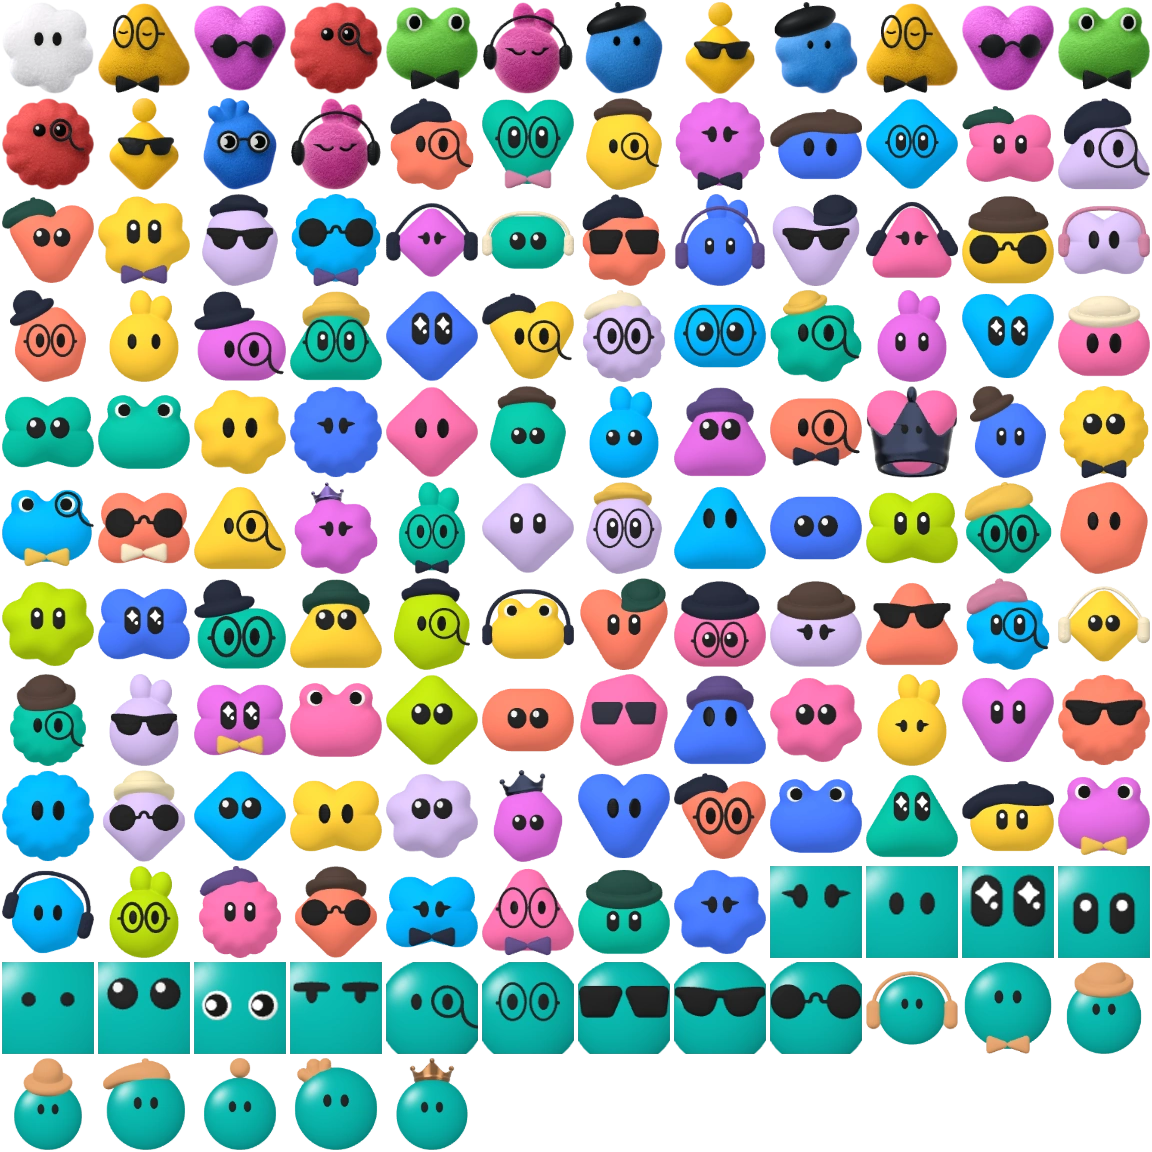
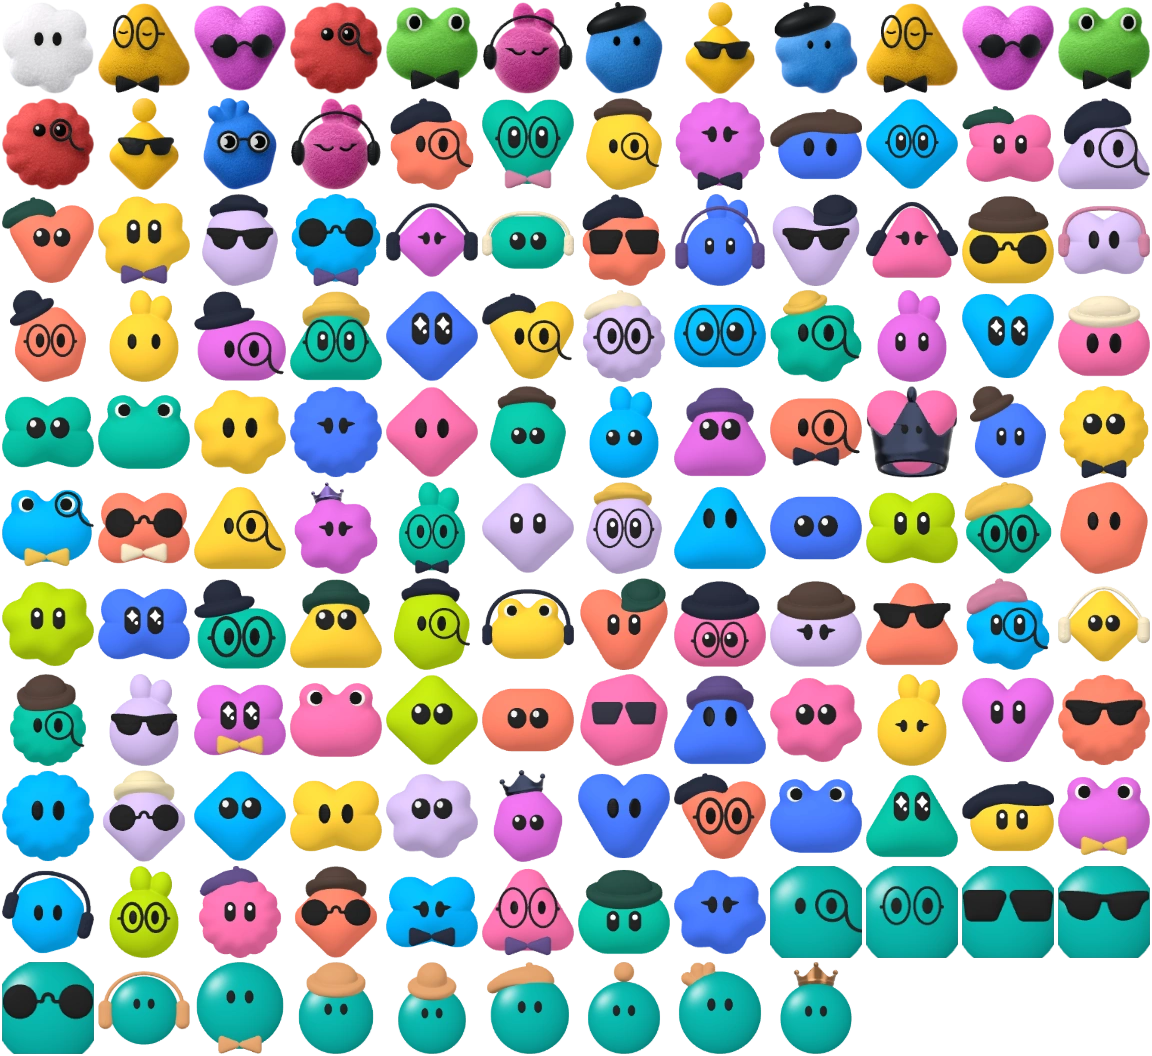
center eye picker previews on the actual eye geometry

diff --git a/site/studio.ts b/site/studio.ts
@@ -4,7 +4,7 @@
 // Scholz and its contributors (MIT; see THIRD_PARTY_NOTICES.md).
 
 import {
-  BOT_COLOURS, bodyOf, bounds, coatMesh, colours, drawAvatar, rotation, silhouette, type Body, stillState, validateAvatar, type AvatarDefinition, type Material, type Shape,
+  avatarParts, BOT_COLOURS, bodyOf, bounds, coatMesh, colours, drawAvatar, rotation, silhouette, type AvatarParts, type Body, stillState, validateAvatar, type AvatarDefinition, type Material, type Shape,
 } from '@blot/avatar';
 
 const front = rotation({ yaw: 0, pitch: 0, roll: 0 });
@@ -303,11 +303,11 @@ export function stillSvg(shape: Shape, colour: string, size = 512, body = bodyOf
   ], size, d.viewBox);
 }
 
-/** Preview the selected eye pair, frame or accessory at the scale of the whole tile. */
-export function partSvg(shape: Shape, body: ReturnType<typeof bodyOf>, eyes: boolean, size = 54): string {
-  const d = drawAvatar(body, '#FFFFFF', stillState(shape, 16), size);
-  const layers = (d.layers ?? []).filter(l => /^(left|right)(-|$)/.test(l.id) === eyes);
-  const paths: SvgPath[] = [...layers];
-  if (eyes) paths.push(...d.eyes.map(path => ({ d: path, fill: '#202024' })));
-  return croppedSvg(paths, size, d.viewBox);
+/** Front-facing eye geometry on a common swatch, including the inserts and catchlights. */
+export function eyePreview(eyes?: AvatarParts['eyes']): string {
+  const shape = eyes ? 'dot-circle' : 'blob';
+  const body = eyes ? avatarParts(shape, { eyes }).body : bodyOf(shape);
+  const d = drawAvatar(body, '#ffffff', stillState(shape, 16), 128);
+  const layers = (d.layers ?? []).filter(layer => /^(left|right)(-|$)/.test(layer.id));
+  return croppedSvg([...layers, ...d.eyes.map(path => ({ d: path, fill: '#202024' }))], 54, d.viewBox);
 }

diff --git a/site/main.ts b/site/main.ts
@@ -18,7 +18,7 @@ import { colorPicker, contrast } from './picker';
 import PROMPT from './prompt.md';
 import portraitSheet from './portraits.json';
 import {
-  AGENTS, designBrief, studioBodyFrame, freeId, isAgent, parseImport, partSvg, readColour, readMaterial, readShare, repairBrief, reviveYours, shareLink, stillSvg, type Agent,
+  AGENTS, designBrief, studioBodyFrame, freeId, isAgent, parseImport, eyePreview, readColour, readMaterial, readShare, repairBrief, reviveYours, shareLink, stillSvg, type Agent,
 } from './studio';
 
 /** The move this page adds through the `clips` option: a waggle. The same text is on the page. */
@@ -782,7 +782,7 @@ for (const key of Object.keys(choices) as PartKey[]) {
     const preview = make('span', { className: 'part-sample' });
     preview.setAttribute('aria-hidden', 'true');
     if (value === 'None') preview.textContent = '∅';
-    else if (original) preview.innerHTML = partSvg('blob', bodyOf('blob'), true);
+    else if (key === 'eyes') preview.innerHTML = eyePreview(DOT_EYES.find(style => style === value));
     else thumbnail(preview, key + '/' + value);
     button.append(preview, make('span', { textContent: value.toLowerCase() }));
     box.append(button);

diff --git a/site/style.css b/site/style.css
@@ -390,6 +390,9 @@ pre code { font-size: inherit; }
   display: grid; place-items: center; width: 54px; height: 54px; border-radius: 10px;
   background: #e3e5ed; color: #454651; font-size: 1.5rem;
 }
+[data-parts="eyes"] { grid-auto-rows: 1fr; }
+[data-parts="eyes"] .part-tile { align-content: start; }
+[data-parts="eyes"] .part-sample { background: #94dbd4; }
 .part-sample svg { width: 46px; height: 46px; display: block; }
 [data-extra-palette]:not([hidden]) { display:flex;flex-wrap:wrap;gap:.5rem;margin-top:1rem; }
 [data-extra-palette] button { width:1.65rem;height:1.65rem;border-radius:50%;border:1px solid #8886;cursor:pointer; }
